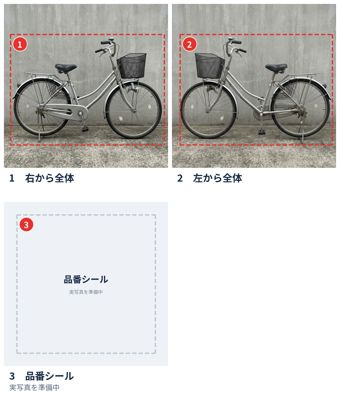
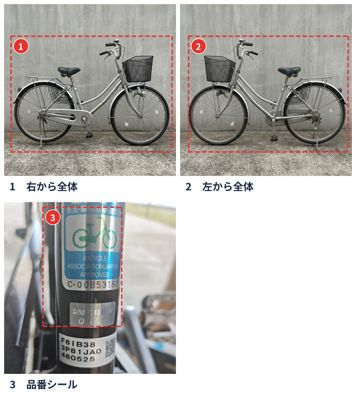
写真査定: 仮パネルと反転画像を解消（品番シール・手元スイッチ・型番ロット番号の実写真、前輪・左と後輪・左の Gemini 生成画像に差し替え）

diff --git a/docs/mihon/make-mihon.py b/docs/mihon/make-mihon.py
@@ -40,6 +40,11 @@ FRAMES = {
     '3346': (300, 150, 720, 900),    # 充電器に載せた状態
     '3345': (40, 60, 960, 960),      # 後輪
     '3348': (150, 250, 760, 1000),   # 鍵を挿した状態
+    'L340': (60, 30, 960, 950),      # 前輪・左（Gemini、2026-09-22 オーナー生成）
+    'L345': (40, 60, 960, 960),      # 後輪・左（Gemini）
+    'R01': (230, 30, 700, 740),      # 車体の品番シール（実写真）
+    'R02': (140, 150, 740, 810),     # 手元スイッチ（電源オン、実写真）
+    'R03': (140, 340, 930, 680),     # バッテリーの型番・ロット番号（実写真）
 }
 
 # 星マークの消し方（画像ごとに指定。自動で「平坦な隣」を選ぶと車輪やペダルを貼ってしまったため）
@@ -57,6 +62,9 @@ STAR_FIX = {
     '3341': ('inpaint', 34),
     '3342': ('inpaint', 34),
     '3348': ('inpaint', 34),
+    'L340': ('clone', (700, 960)),   # 床（タイヤの縁より下）
+    'L345': ('clone', (777, 905)),
+    'R01': ('none', None), 'R02': ('none', None), 'R03': ('none', None),   # 実写真には星マークが無い
 }
 # 文字の消し方：回転した楕円／長方形のマスクで周囲から塗る（cv2.inpaint NS）。1024px 座標
 #   ('ellipse', (cx, cy), (ax, ay), angle) / ('rect', (cx, cy), (w, h), angle)
@@ -67,19 +75,19 @@ PENDING = '実写真を準備中'
 
 # 番号 → (元画像, 短い名称, 補足, 左右反転)。元画像が None は仮パネル
 NORMAL = {
-    1: ('3337', '右から全体', '', False), 2: ('3338', '左から全体', '', False), 3: (None, '品番シール', PENDING, False),
+    1: ('3337', '右から全体', '', False), 2: ('3338', '左から全体', '', False), 3: ('R01', '品番シール', '', False),
     4: ('3344', 'ハンドルまわり', '', False), 5: ('3339', 'チェーン・ペダル', '', False),
-    6: ('3340', '前輪・右', '', False), 7: ('3340', '前輪・左', SIDE_NOTE, True),
-    8: ('3345', '後輪・右', '', False), 9: ('3345', '後輪・左', SIDE_NOTE, True),
+    6: ('3340', '前輪・右', '', False), 7: ('L340', '前輪・左', SIDE_NOTE, False),
+    8: ('3345', '後輪・右', '', False), 9: ('L345', '後輪・左', SIDE_NOTE, False),
     10: ('3341', '前カゴ', '', False), 11: ('3342', '荷台', '', False),
 }
 EBIKE = {
-    1: ('3343', '右から全体', '', False), 2: ('3338', '左から全体', '', False), 3: (None, '品番シール', PENDING, False),
-    4: ('3344', 'ハンドルまわり', '', False), 5: (None, '手元スイッチ（電源オン）', PENDING, False), 6: ('3339', 'チェーン・ペダル', '', False),
-    7: ('3340', '前輪・右', '', False), 8: ('3340', '前輪・左', SIDE_NOTE, True),
-    9: ('3345', '後輪・右', '', False), 10: ('3345', '後輪・左', SIDE_NOTE, True),
+    1: ('3343', '右から全体', '', False), 2: ('3338', '左から全体', '', False), 3: ('R01', '品番シール', '', False),
+    4: ('3344', 'ハンドルまわり', '', False), 5: ('R02', '手元スイッチ（電源オン）', '', False), 6: ('3339', 'チェーン・ペダル', '', False),
+    7: ('3340', '前輪・右', '', False), 8: ('L340', '前輪・左', SIDE_NOTE, False),
+    9: ('3345', '後輪・右', '', False), 10: ('L345', '後輪・左', SIDE_NOTE, False),
     11: ('3341', '前カゴ', '', False), 12: ('3342', '荷台', '', False),
-    13: ('3348', '鍵を挿した状態', '', False), 14: (None, '型番・ロット番号', PENDING, False), 15: ('3346', '充電器に載せた状態', '', False),
+    13: ('3348', '鍵を挿した状態', '', False), 14: ('R03', '型番・ロット番号', '', False), 15: ('3346', '充電器に載せた状態', '', False),
 }
 # 工程 → 番号（2026-09-22 オーナー指摘で工程を減らした：一般車4・電動6。「気になる点」の工程は廃止）
 SETS_NORMAL = {1: [1, 2, 3], 2: [4, 5], 3: [6, 7, 8, 9], 4: [10, 11]}
@@ -115,6 +123,8 @@ def remove_star(im, src_id):
     arr = cv2.cvtColor(np.array(im.convert('RGB')), cv2.COLOR_RGB2BGR)
     cx, cy = STAR_CENTER
     method, arg = STAR_FIX.get(src_id, ('clone', (cx - 128, cy)))
+    if method == 'none':
+        return im
     if method == 'inpaint':
         mask = np.zeros(arr.shape[:2], np.uint8)
         cv2.circle(mask, (cx, cy), int(arg), 255, -1)
@@ -146,6 +156,8 @@ def remove_text(im, src_id):
 def load_clean(src_dir, src_id):
     """元画像を読み、星マークと文字を消した 1024 の PIL 画像を返す（無ければ None）"""
     path = os.path.join(src_dir, src_id + '.png')
+    if not os.path.exists(path):
+        path = os.path.join(src_dir, src_id + '.jpg')
     if not os.path.exists(path):
         return None
     im = Image.open(path).convert('RGB').resize((SIZE, SIZE))
